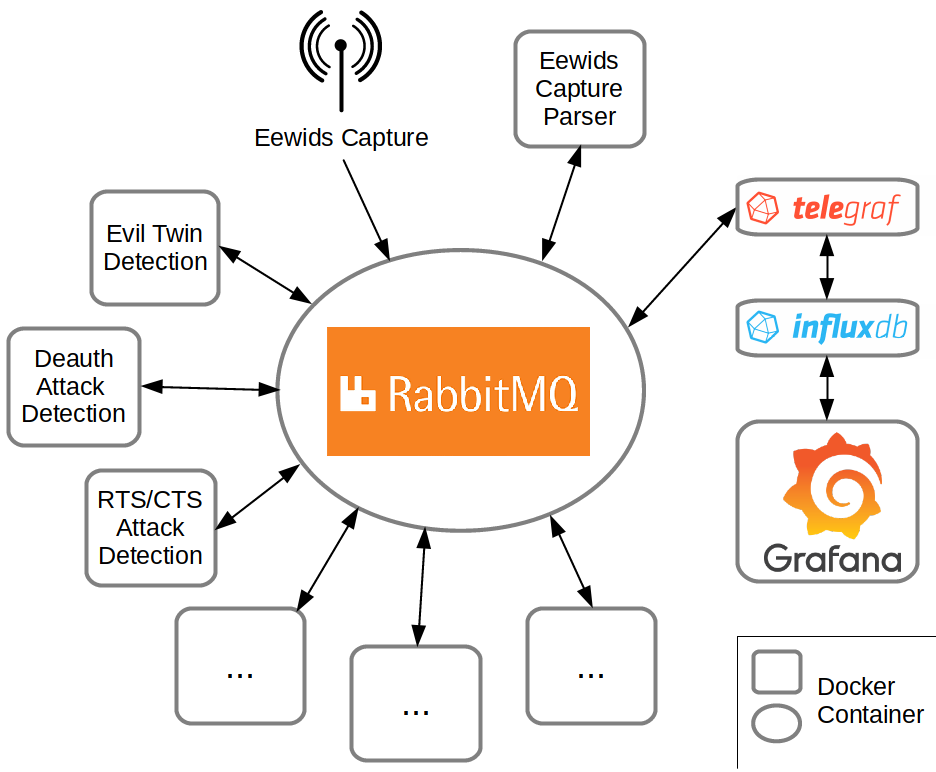
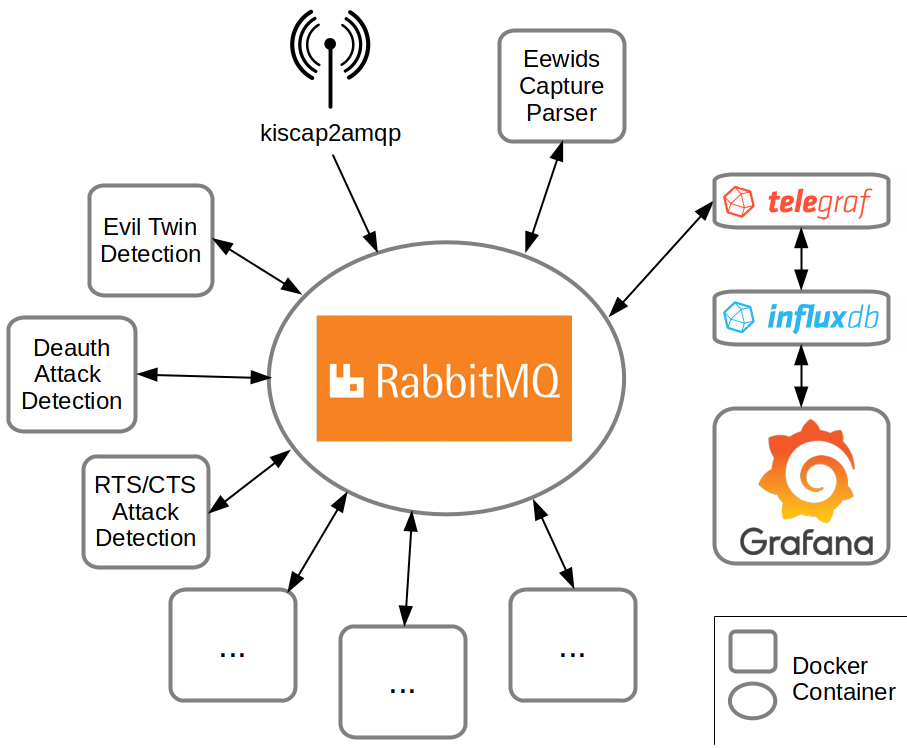
Update documentation

diff --git a/README.md b/README.md
@@ -1,5 +1,6 @@
 # Easily Expandable Wireless Intrusion Detection System
-**Note:** This project is still under development and far away from being ready or perfect. However, feel free to play around and open issues if you see something interesting. Also have a look at the [getting-started](doc/getting-started.md) section first.
+
+**Note:** While this project may is in a state in which it can be used, it still needs a lot of development and thus is far away from being ready or perfect. However, feel free to play around and open issues if you see something interesting. Also have a look at the [getting-started](doc/getting-started.md) section before starting.
 
 ## Background 
 [Analyzing 0x90/wifi-arsenal](https://github.com/techge/wifi-arsenal) especially in search of wireless intrusion detection systems (WIDS) I realized that there just is no complete ready-to-go solution yet, at least regarding free and open source software (FOSS). For me a WIDS should
@@ -22,3 +23,13 @@ Let's look at a [honey pot](https://en.wikipedia.org/wiki/Honeypot_(computing)) 
 Another advantage is the freedom of choice of visualization/analyzing software. It is easily possible to include either influxdata's [TICK stack](https://www.influxdata.com/time-series-platform/) or the [ElasticSearch stack](https://www.elastic.co/), both Open Source analyzing software which also have anomaly detection methods. These stacks and other software already have interfaces to access RabbitMQ and to read json-formatted data and thus it is easy to extract the collected information as needed. Eewids already integrates InfluxDB with Grafana for visualization of captured data.
 
 This should make it easy to extend Eewids in various ways. Let's see what can happen.
+
+## TODOs
+
+These are limitations and problems that would be nice to get addressed (beside a lot of others ;-) ):
+
+* fix time problems -> in influxdb the time when telegraf is sending the data is stored -> we want to store the actual capture time. This might be decided by pcap on device or by RabbitMQ arrival time or something else
+* pcapng-export tool -> export pcapng stream by getting all messages of the capture-raw exchange during a specific time frame and craft it to a pcapng
+* look for the tag_keys problem: telegraf is getting the data as json from rabbitmq and is sending this data to influxdb - we can only use these values in the 'where' part of a query in grafana that we have defined as 'tag_keys' in etc/telegraf.conf before hand. this is most annoying
+* Look if Kapacitor (Influx stack) could add any value to Eewids
+* Add RabbitMQ metric to Grafana https://www.rabbitmq.com/prometheus.html

diff --git a/doc/getting-started.md b/doc/getting-started.md
@@ -32,24 +32,35 @@ cd eewids
 sudo ./start.sh --server
 ```
 
-To use the capture tool separately e.g. to connect multiple sources to Eewids, you need to build the capture tool first on the machine. The capture tool needs libpcap and librabbitmq to get build successfully. For example on a Debian-based system you would need to install the following:
+To use the capture tool separately e.g. to connect multiple sources to Eewids, you need to build the capture tool first on the machine. It needs libpcap and librabbitmq to get build successfully. For example on a Debian-based system you would need to install the following:
 
 ```
-sudo apt-get update && sudo apt-get install build-essential libpcap-dev librabbitmq-dev
+sudo apt-get update
+sudo apt-get install \
+    build-essential \
+    libcap-dev \
+    libnl-3-dev \
+    libnl-genl-3-dev \
+    libnm-dev \
+    libpcap-dev \
+    librabbitmq-dev \
+    pkg-config
 ```
 
 After installing the depencies you can clone the repo and build the capture tool.
 
 ```
 git clone https://github.com/techge/eewids.git
-cd eewids/eewids-capture
-gcc -lpcap -lrabbitmq -o eewids-capture eewids-cap.c amqp-utils.c
+cd eewids/kiscap2amqp
+./configure
+make
 ```
 
 Now you can start the capture tool by typing the following:
 
 ```
-./eewids-capture wlan0 eewids-server
+./capture_linux_wifi/kiscap2amqp_linux_wifi --source wlan0 --rabbitmq localhost:5672 --capexchange capture-raw
 ``` 
-where ```wlan0``` is the Wi-Fi interface and ```eewids-server``` is the hostname of the machine you entered the start.sh script command.
+
+where `wlan0` is the Wi-Fi interface and `--rabbitmq` points to the RabbitMQ server on machine you entered the `start.sh --server` script command.
 
